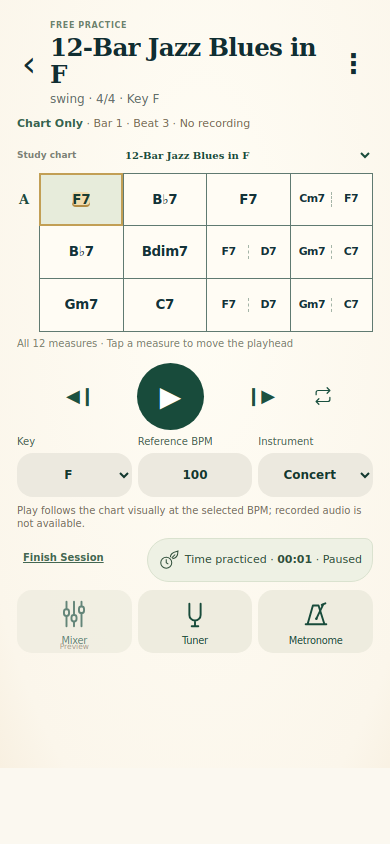
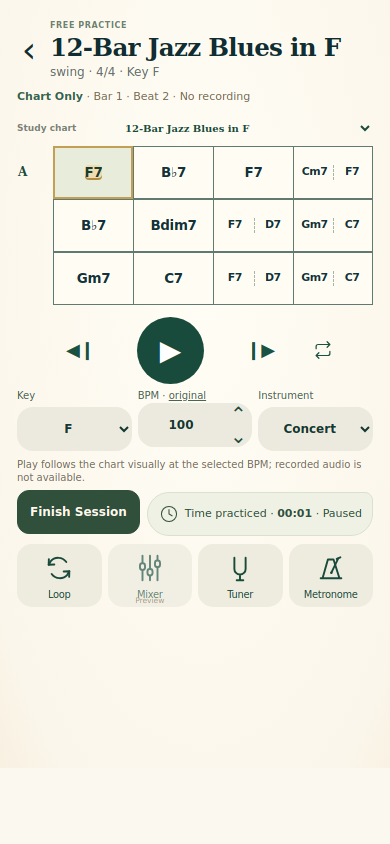
Apply player review: separate loops, BPM reset, closed chart and explicit finish

diff --git a/web/src/pages/PracticePage.tsx b/web/src/pages/PracticePage.tsx
@@ -113,6 +113,9 @@ export function PracticePage() {
   const toolOverlayRef = useRef<HTMLDivElement | null>(null);
   const [tempo, setTempo] = useState(100);
   const [tempoInput, setTempoInput] = useState('100');
+  const recordingLoopRef = useRef<{ start: number; end: number; plays: number; remaining: number }[]>([]);
+  const recordingLoopRepeat = useRef(false);
+  const recordingLoopIndex = useRef(0);
   const [repeatRecording, setRepeatRecording] = useState(false);
 
   // Prior steps are committed as milliseconds; the current step retains its
@@ -200,7 +203,23 @@ export function PracticePage() {
 
   useEffect(() => {
     if (!activeRecording || !isRunning) return;
-    const timer = window.setInterval(() => setRecordingPosition(audioRef.current?.currentTime ?? 0), 50);
+    const timer = window.setInterval(() => {
+      const audio = audioRef.current;
+      if (!audio) return;
+      const plan = recordingLoopRef.current;
+      const section = plan[recordingLoopIndex.current];
+      if (section && audio.currentTime >= section.end) {
+        if (--section.remaining <= 0) recordingLoopIndex.current++;
+        if (recordingLoopIndex.current >= plan.length && recordingLoopRepeat.current) {
+          recordingLoopIndex.current = 0;
+          plan.forEach(item => { item.remaining = item.plays; });
+        }
+        const next = plan[recordingLoopIndex.current];
+        if (next) audio.currentTime = next.start;
+        else { recordingLoopRef.current = []; setLoopEnabled(false); }
+      }
+      setRecordingPosition(audio.currentTime);
+    }, 50);
     return () => window.clearInterval(timer);
   }, [activeRecording?.id, isRunning]);
 
@@ -290,10 +309,6 @@ export function PracticePage() {
   }
 
   function openLoop(trigger: HTMLButtonElement) {
-    if (activeRecording) {
-      showToast('Recording loops are not available yet. The audio plays as recorded.');
-      return;
-    }
     loopTriggerRef.current = trigger;
     setLoopOpen(true);
   }
@@ -305,6 +320,16 @@ export function PracticePage() {
 
   function applyLoop(enabled: boolean, sections: LoopSection[], repeatPlan: boolean) {
     const now = performance.now();
+    if (activeRecording) {
+      recordingLoopIndex.current = 0;
+      recordingLoopRepeat.current = repeatPlan;
+      recordingLoopRef.current = enabled ? sections.map(section => {
+        const start = recordingTimeForSelectedBar(section.startBar - 1, audioRef.current?.currentTime ?? 0, activeRecording, chart.time_signature, chart.bars.length);
+        const end = start + (section.endBar - section.startBar + 1) * chart.time_signature[0] * 240 / (activeRecording.recordedBpm * chart.time_signature[1]);
+        return { start, end: Math.min(end, recordingDuration), plays: section.plays, remaining: section.plays };
+      }) : [];
+      if (enabled && recordingLoopRef.current[0]) seekRecording(recordingLoopRef.current[0].start);
+    }
     setLoopEnabled(enabled);
     setLoopSections(sections);
     setRepeatWholePlan(repeatPlan);
@@ -593,7 +618,6 @@ export function PracticePage() {
             : formatChartMeta(chart) + ' · Key ' + chart.concert_key.replace('b', '♭')}</p>
           {chart.style_instruction && <p className="practice-chart-style">{chart.style_instruction}</p>}
         </div>
-        <button className="practice-more" type="button" aria-label="Finish session" onClick={finishSession}>⋮</button>
       </header>
 
       {activeRecording && <audio
@@ -647,7 +671,7 @@ export function PracticePage() {
               activeEventIndex={playhead.eventIndex} loopRange={loopRange}
               onSelectBar={moveToBar} showSectionLabels practiceSheet />
           </div>
-          <p className="practice-chart-caption">All {chart.bars.length} measures · Tap a measure to move the playhead</p>
+
         </div>
       )}
 
@@ -697,20 +721,20 @@ export function PracticePage() {
         </div>
         <div className="practice-chart-controls practice-player-pills" id="practice-inline-settings">
           <label>{activeRecording ? 'Key · chart only' : 'Key'}<select value={CHROMA[pitchClass(chartKey) ?? 0]} onChange={event => setChartKey(event.target.value)} aria-label="Transpose concert chart key">{CHROMA.map(key => <option key={key} value={key}>{key.replace('b', '♭')}</option>)}</select></label>
-          <label>{activeRecording ? 'BPM · original' : 'Reference BPM'}<input type="number" min={40} max={240} value={activeRecording?.recordedBpm ?? tempoInput} readOnly={Boolean(activeRecording)} onChange={event => {
-            const value = event.target.value;
-            setTempoInput(value);
-            if (Number(value) >= 40 && Number(value) <= 240) changeTempo(Number(value));
-          }} onBlur={() => changeTempo(Number(tempoInput) || tempo)} aria-label={activeRecording ? 'Original recording BPM' : 'Reference tempo in beats per minute'} /></label>
+          <div className="practice-bpm-field"><span>BPM · <button type="button" className="bpm-reset" onClick={() => changeTempo(activeRecording?.recordedBpm ?? chosenExercise?.suggested_bpm ?? 100)}>original</button></span>
+            <div className="bpm-stepper"><input aria-label="Reference tempo in beats per minute" type="number" min={40} max={240} value={tempoInput} onChange={event => { setTempoInput(event.target.value); if (+event.target.value >= 40 && +event.target.value <= 240) changeTempo(+event.target.value); }} onBlur={() => changeTempo(+tempoInput || tempo)} />
+            <div><button type="button" aria-label="Increase reference BPM" onClick={() => changeTempo(tempo + 1)}>⌃</button><button type="button" aria-label="Decrease reference BPM" onClick={() => changeTempo(tempo - 1)}>⌄</button></div></div>
+          </div>
           <label>Instrument<select value={writtenPitch} onChange={event => setWrittenPitch(event.target.value as WrittenPitch)} aria-label="Transposing instrument"><option value="C">Concert</option><option value="Bb">B♭</option><option value="Eb">E♭</option></select></label>
         </div>
-        <p className="practice-reference-note">{activeRecording ? 'Chart follows the recording. Tempo/key settings do not change the recorded sound.' : 'Play follows the chart visually at the selected BPM; recorded audio is not available.'}</p>
+        <p className="practice-reference-note">{activeRecording ? 'Reference BPM and chart key only; audio stays at its original speed and pitch.' : 'Play follows the chart visually at the selected BPM; recorded audio is not available.'}</p>
         <div className="practice-session-row"><button className="practice-finish-action" type="button" onClick={finishSession}>Finish Session</button><PracticeTimeBadge seconds={elapsedSeconds} running={isRunning} /></div>
       </div>
       {routine && panel === 'instructions' && lesson && (
         <div className="practice-coach-dock"><GuidedCatCoach key={stepIndex} lesson={lesson} catId={catId} /></div>
       )}
       <div className="practice-utility-row" aria-label="Practice tools">
+        <button type="button" onClick={event => openLoop(event.currentTarget)} aria-pressed={loopEnabled}><PracticeToolGlyph name="loop" /><span>Loop</span></button>
         <button type="button" disabled title="Mixer is Preview only"><PracticeToolGlyph name="mixer" /><span>Mixer</span><small>Preview</small></button>
         <button type="button" onClick={event => openTool('tuner', event.currentTarget)}><PracticeToolGlyph name="tuner" /><span>Tuner</span></button>
         <button type="button" onClick={event => openTool('metronome', event.currentTarget)}><PracticeToolGlyph name="metronome" /><span>Metronome</span></button>

diff --git a/web/src/pages/PracticePlayerApproved.css b/web/src/pages/PracticePlayerApproved.css
@@ -1465,3 +1465,21 @@
 .practice-unified.practice-instructions .practice-control-row { grid-template-columns: 1fr; }
 .practice-unified.practice-instructions .practice-transport > .practice-reference-note { display: none; }
 .practice-unified.practice-guided .practice-segments { grid-template-columns: repeat(2,minmax(0,1fr)); }
+/* Review corrections: separate section loop, closed cells, and reference BPM. */
+.practice-unified .practice-utility-row { grid-template-columns: repeat(4,minmax(0,1fr)); }
+.practice-unified .practice-chart-scroll.practice-chart-all .chord-grid.practice-sheet { padding-left: 36px; }
+.practice-unified .practice-chart-scroll.practice-chart-all .practice-sheet .measure-section-label { left: -36px; width: 32px; font-size: 12px; }
+.practice-unified .practice-chart-scroll.practice-chart-all .chord-grid.practice-sheet .measure:last-child { border-right: 1px solid #607a71; }
+.practice-unified .practice-chart-scroll.practice-chart-all .chord-grid.practice-sheet .measure { border-top: 1px solid #607a71; }
+.practice-bpm-field { min-width: 0; font: 500 10px/1.4 system-ui,sans-serif; color: #4b6454; }
+.practice-bpm-field .bpm-reset { padding: 0; border: 0; background: none; color: inherit; text-decoration: underline; font: inherit; }
+.bpm-stepper { display: flex; background: #ece9df; border-radius: 16px; overflow: hidden; }
+.bpm-stepper > div { display: flex; flex-direction: column; }
+.bpm-stepper button { width: 28px; height: 22px; border: 0; padding: 0; background: transparent; color: #194c3b; font-size: 20px; line-height: 20px; }
+.practice-unified .bpm-stepper input { appearance: textfield; }
+.bpm-stepper input::-webkit-inner-spin-button { -webkit-appearance: none; }
+.practice-unified .practice-session-row .practice-finish-action {
+  min-height: 44px; border: 1px solid #31503b; border-radius: 12px;
+  padding: 8px 12px; background: #31503b; color: #fff9ed;
+  text-decoration: none; font: 600 12px system-ui,sans-serif;
+}

diff --git a/web/src/components/PracticeMediaControls.tsx b/web/src/components/PracticeMediaControls.tsx
@@ -4,7 +4,7 @@ import { formatPracticeTime } from '../pages/practicePlayerLogic';
 export function SkipTenIcon({ forward = false }: { forward?: boolean }) {
   return <svg viewBox="0 0 32 32" aria-hidden="true" className="practice-skip-icon">
     <g fill="none" stroke="currentColor" strokeWidth="1.8" strokeLinecap="round" strokeLinejoin="round" transform={forward ? 'translate(32 0) scale(-1 1)' : undefined}>
-      <path d="M8 8a11 11 0 1 1-3 11M8 3v6H2" />
+      <path d="M7 9a11 11 0 1 1-2 12M7 3v6h6" />
     </g>
     <text x="16" y="21" textAnchor="middle" fill="currentColor" fontSize="12" fontWeight="600">10</text>
   </svg>;
@@ -20,8 +20,8 @@ export function PracticeTimeBadge({ seconds, running }: { seconds: number; runni
   return <button type="button" className="practice-time-badge" aria-expanded={!hidden}
     aria-label={hidden ? 'Show practice time' : 'Hide practice time'} onClick={() => setHidden(value => !value)}>
     <svg viewBox="0 0 32 32" width="22" height="22" aria-hidden="true" fill="none" stroke="currentColor" strokeWidth="1.5">
-      <path d="M18 12C18 4 26 4 29 3c0 7-3 11-8 11M20 13l5-5" />
-      <circle cx="12" cy="20" r="8"/><path d="M12 15v5l3 2"/>
+
+      <circle cx="16" cy="16" r="11"/><path d="M16 9v7l5 3"/>
     </svg>
     {!hidden && <span>Time practiced · <strong data-testid="session-elapsed">{formatPracticeTime(seconds)}</strong>{!running && seconds > 0 ? ' · Paused' : ''}</span>}
   </button>;

diff --git a/web/src/features/recordings/RecordingOnlyPractice.tsx b/web/src/features/recordings/RecordingOnlyPractice.tsx
@@ -143,7 +143,6 @@ export function RecordingOnlyPractice({ recording }: { recording: RecordedBackin
         <h1>{recording.title}</h1>
         <p>Backing Track · {recording.style || 'Jazz'}</p>
       </div>
-      <button className="practice-more" type="button" onClick={finish} aria-label="Finish session">⋮</button>
     </header>
     <audio ref={audioRef} src={recording.src} preload="metadata" loop={repeatRecording}
       aria-label={recording.title + ' backing track'}

diff --git a/web/docs/P02-UNIFIED-PLAYER-REVIEW.md b/web/docs/P02-UNIFIED-PLAYER-REVIEW.md
@@ -48,3 +48,7 @@ No merge or deployment requested or performed. `web/vercel.json` disables automa
 ## CI follow-up
 
 Updated legacy P02 checks for three utility buttons, inline settings and the removed Player tab. Guided lessons retain scrollable pages with reachable tools. Initial GitHub P02 recording regression, chart/routine integration, build and native foundation jobs passed. The unrelated interactive chart-builder job timed out waiting for “Measure 1 chord 2” at `check-interactive-chart-builder.mjs:78`; chart-builder implementation is unchanged by this PR. This remains an outstanding CI limitation, separate from the passing custom-chart integration suite.
+
+## Product review corrections
+
+Restored a separate section Loop control alongside full-recording Repeat. Recorded section plans seek the actual media element and preserve practice time. Corrected the circular skip arrows, changed the timer icon to a plain clock, widened the section-label gutter and closed the final chart cell. Removed the measure-count caption and three-dot finish action. Finish Session is now a filled evergreen button. Reference BPM has up/down controls and an underlined original reset; audio remains at its original speed and pitch. These BPM and Loop decisions supersede the initial read-only BPM/three-tool description above. Updated mobile captures accompany these corrections.
